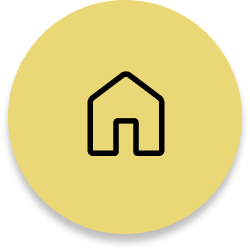
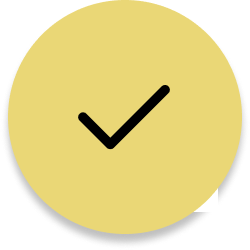
home button fixed and changed to confirm button

Changed region(s): [[0.308, 0.28, 0.7, 0.644], [0.784, 0.756, 0.896, 0.868]]

diff --git a/frontend/app/index.tsx b/frontend/app/index.tsx
@@ -1,13 +1,13 @@
 import { View, StyleSheet } from 'react-native';
-
 import Button from '@/components/Button'; 
-import { Image } from 'expo-image'; 
+import { Image } from 'react-native'; 
 import ImageViewer from '@/components/ImageViewer';
 import * as ImagePicker from 'expo-image-picker';
+import { useRouter } from 'expo-router';
 import { useState } from 'react';
 
-const PlaceholderImage = require("@/assets/images/imageOfPaperBall.png");
-const HomeImage = require("@/assets/images/homeButton.png");
+const PlaceholderImage = require("@/assets/images/imageOfPaperBall3.jpg");
+const HomeImage = require("@/assets/images/SelectButton.png");
 
 export default function Index() {
   // Create state variable holding the value of selected image
@@ -28,19 +28,23 @@ export default function Index() {
     }
   };
 
+ 
   return (
     <View style={styles.container}>
       <View style={styles.imageContainer}>
         <ImageViewer imgSource={PlaceholderImage} selectedImage={selectedImage} />
       </View>
       <View style={styles.buttonContainer}>
+
         <Button theme="primary" label="Choose a photo" onPress={pickImageAsync}/>
-        <Button label="Use this photo" />
       </View>
       <View style={styles.footerContainer}>
-      <Button label="hbutton" onPress={pickImageAsync}>
-          <Image source={HomeImage} style={{ width: 40, height: 40 }} />
-        </Button>
+      <View style={styles.homeContainer}>
+      <Button onPress={pickImageAsync}>
+  <Image source={HomeImage} style={{ width: 100, height: 125,paddingBottom: 25, flexShrink:0,}} />
+</Button>
+</View>
+<View style ={styles.bottomBar}></View>
       </View>
     </View>
   );
@@ -49,17 +53,37 @@ export default function Index() {
 const styles = StyleSheet.create({
   container: {
     flex: 1,
-    backgroundColor: '#25292e',
+    backgroundColor: '#FFF7CC',
     alignItems: 'center',
+  },
+  bottomBar: {
+    width: 390,
+    height: 5.5,
+    flexShrink: 0,
+    borderRadius: 20,
+    backgroundColor: '#A97142',
+    alignItems: 'center',       // center horizontally
+    paddingTop: 5,
+
   },
   imageContainer: {
     flex: 1,
     paddingTop: 28,
+    paddingLeft:10,
+    paddingRight:10,
+    width: 359.458,
+    height: 347.029,
+    flexShrink: 0,
+    borderRadius: 2,
+    alignItems: 'center',
+
   },
   homeContainer: {
-    width: 117,
-    height: 117,
-    flexShrink: 0,
+overflow: 'visible',
+    paddingVertical: 10,
+    alignItems: 'center',
+    height: 125,
+
   },
   buttonContainer: {
     flex: 1 / 3,
@@ -67,10 +91,12 @@ const styles = StyleSheet.create({
   },
   footerContainer: {
     width: 390,
-    height: 74.5,
-    flexShrink: 0,
-    borderRadius: 20,
+    height: 120.5,
     backgroundColor: '#A97142',
+    alignItems: 'center',       // center horizontally
+    justifyContent: 'center',   // center vertically
+    overflow: 'visible',
+    paddingBottom:10,
   },
 });
 

diff --git a/frontend/components/Button.tsx b/frontend/components/Button.tsx
@@ -1,14 +1,21 @@
 import { StyleSheet, View, Pressable, Text } from 'react-native';
 import FontAwesome from '@expo/vector-icons/FontAwesome';
 
+// type Props = {
+//   label: string;
+//   theme?: 'primary';
+//   onPress?: () => void;
+//   children?: React.ReactNode; 
+// };
 type Props = {
-  label: string;
+  label?: string;
   theme?: 'primary';
   onPress?: () => void;
-  children?: React.ReactNode; 
+  children?: React.ReactNode;
 };
 
-export default function Button({ label, theme, onPress }: Props) {
+
+export default function Button({ label, theme, onPress, children }: Props) {
   if (theme === 'primary') {
     return (
       <View
@@ -19,8 +26,14 @@ export default function Button({ label, theme, onPress }: Props) {
         <Pressable
           style={[styles.button, { backgroundColor: '#fff' }]}
           onPress={onPress}>
+            {children ? (
+            children
+          ) : (
+            <>
           <FontAwesome name="picture-o" size={18} color="#25292e" style={styles.buttonIcon} />
           <Text style={[styles.buttonLabel, { color: '#25292e' }]}>{label}</Text>
+          </>
+          )}
         </Pressable>
       </View>
     );
@@ -29,7 +42,11 @@ export default function Button({ label, theme, onPress }: Props) {
   return (
     <View style={styles.buttonContainer}>
       <Pressable style={styles.button} onPress={() => alert('You pressed a button.')}>
-        <Text style={styles.buttonLabel}>{label}</Text>
+      {children ? (
+          children
+        ) : (
+          <Text style={styles.buttonLabel}>{label}</Text>
+        )}
       </Pressable>
     </View>
   );

diff --git a/frontend/app/_layout.tsx b/frontend/app/_layout.tsx
@@ -3,7 +3,7 @@ import { Stack } from 'expo-router';
 export default function RootLayout() {
   return (
     <Stack>
-      <Stack.Screen name="(tabs)" options={{ headerShown: false }} />
+      <Stack.Screen name="home screen" options={{ headerShown: false }} />
     </Stack>
   );
 }
